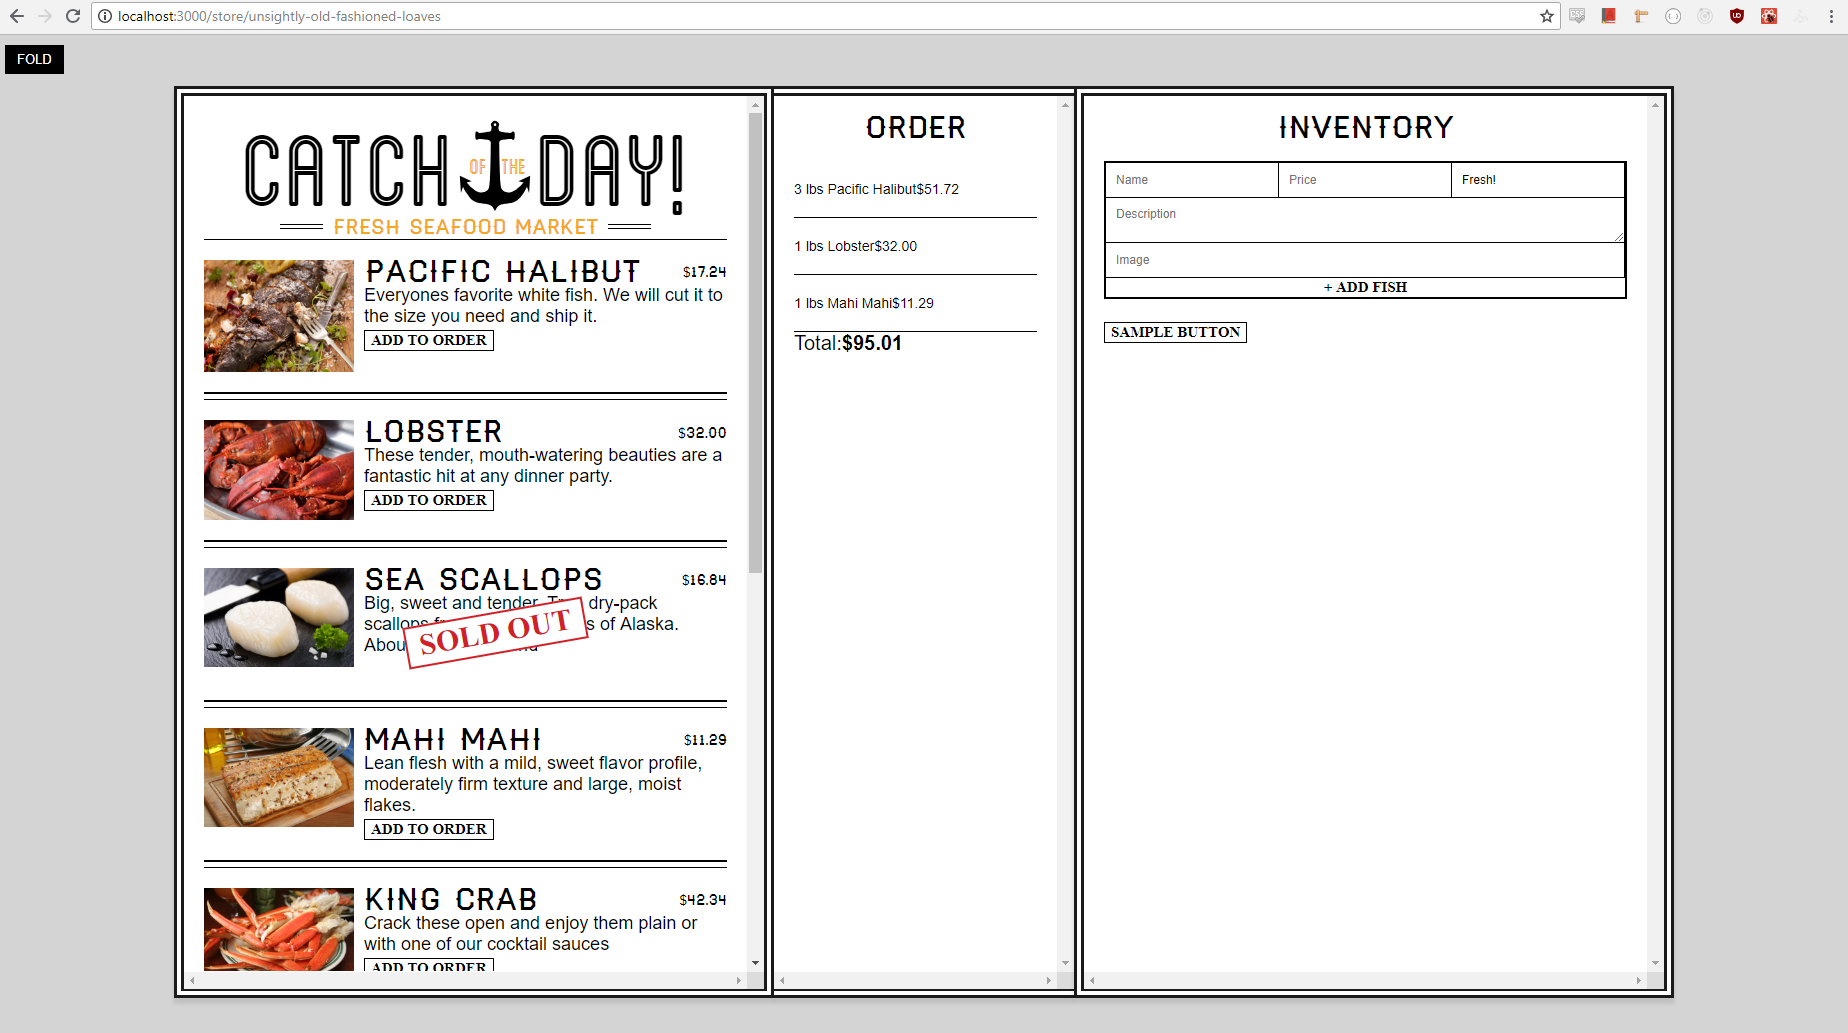
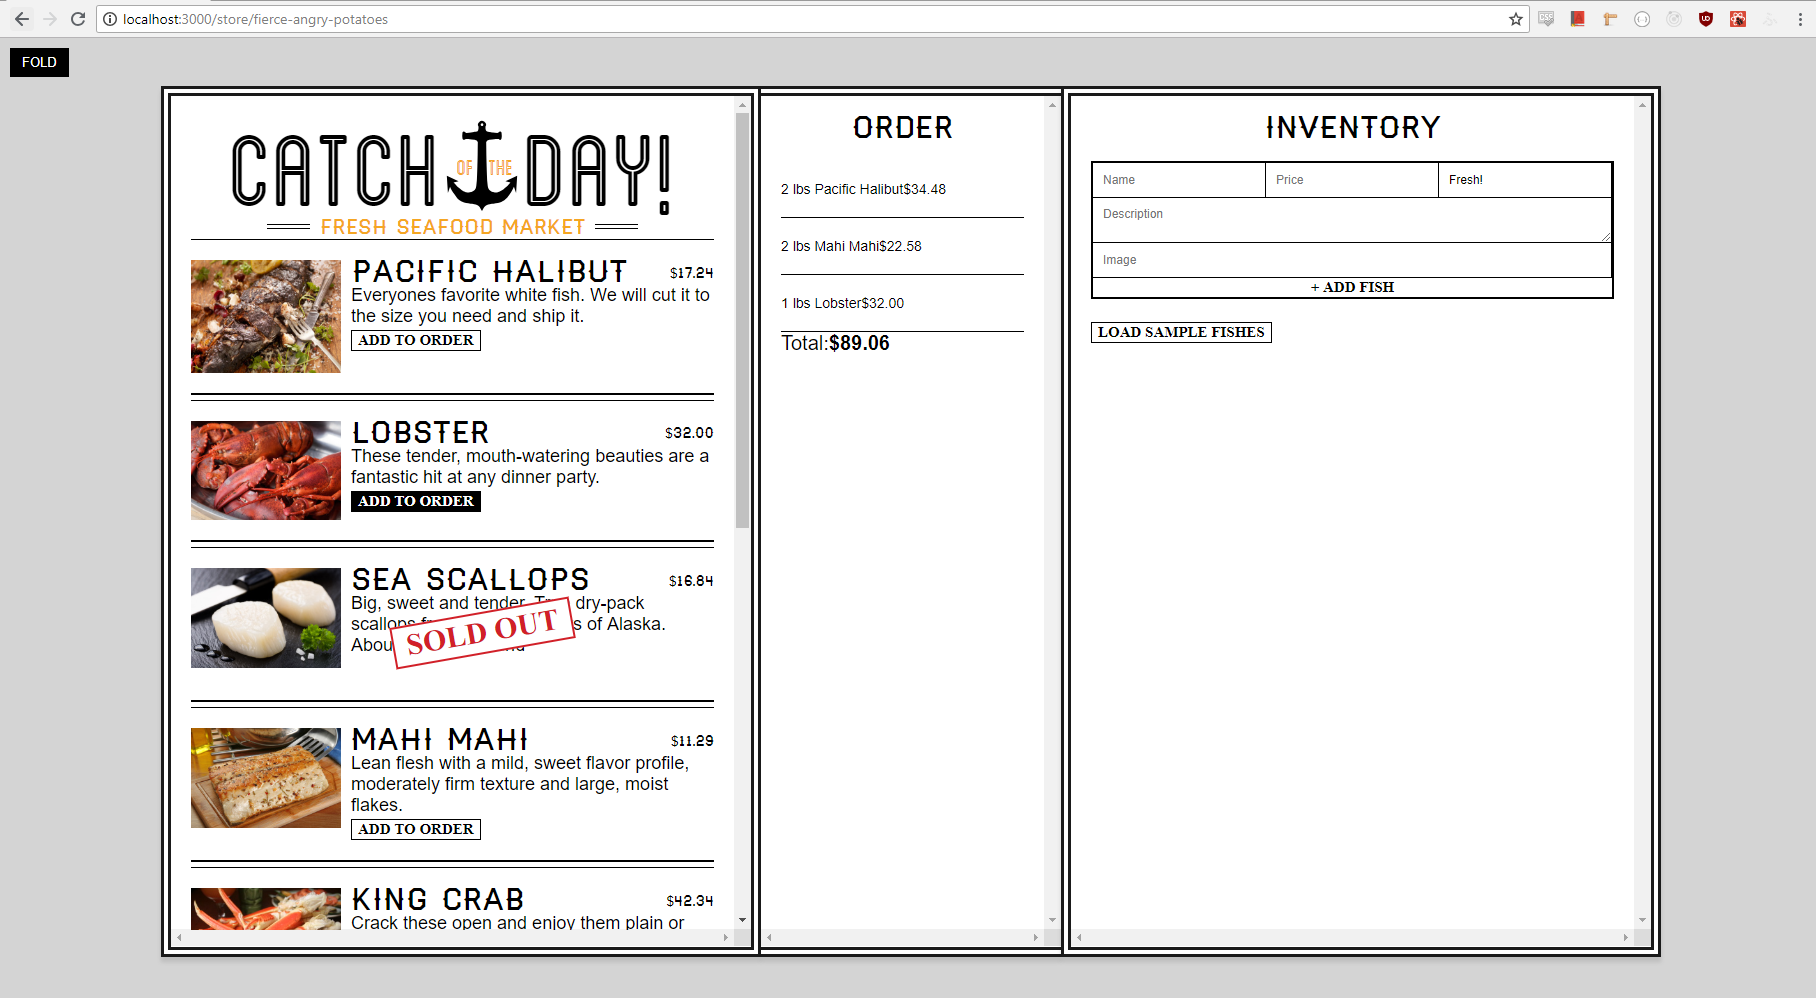
keeping data using local storage.

Changed region(s): [[0.0, 0.0, 1.0, 0.994]]

diff --git a/catch-of-the-day/src/components/App.js b/catch-of-the-day/src/components/App.js
@@ -13,11 +13,24 @@ class App extends React.Component{
     };
 
     componentDidMount() {
+        //need to reinstate the local storage
+        const localstorageRef = localStorage.getItem(this.props.match.params.storeID);
+        if(localstorageRef){
+            console.log(localstorageRef);
+            this.setState({ order: JSON.parse(localstorageRef) });
+        }
         // this uses the rebase library to sync state 
         this.ref = base.syncState(`${this.props.match.params.storeID}/fishes`,{
             context: this,
             state: "fishes"
         });
+    }
+
+    //we need to update loval storage whenever the order is updated. 
+    componentDidUpdate(){
+        console.log(this.state.order);
+        localStorage.setItem(this.props.match.params.storeID, JSON.stringify(this.state.order));
+        console.log("updated!");
     }
 
     //need to unmount because then rebase will keep listening and will cause memory leaks. 

diff --git a/catch-of-the-day/src/components/Order.js b/catch-of-the-day/src/components/Order.js
@@ -6,7 +6,11 @@ class Order extends React.Component{
     renderOrder = key => {
         const fish = this.props.fishes[key];
         const count = this.props.order[key];
-        const isAvailable = fish.status === 'available';
+        //need to check if fish and a status exist not just status. 
+        const isAvailable = fish && fish.status === 'available';
+        // returning null will render nothing to the component. 
+        if(!fish) return null;
+
         if(!isAvailable){
             return <li key={key}>
                 {fish ? fish.name : 'fish'} is no longer available. 

diff --git a/catch-of-the-day/src/components/Inventory.js b/catch-of-the-day/src/components/Inventory.js
@@ -10,7 +10,7 @@ class Inventory extends React.Component{
                     addFish={this.props.addFish}
                 />
                 <button onClick={this.props.loadSampleFishes}>
-                Sample button
+                Load sample fishes
                 </button>
             </div>
         );
